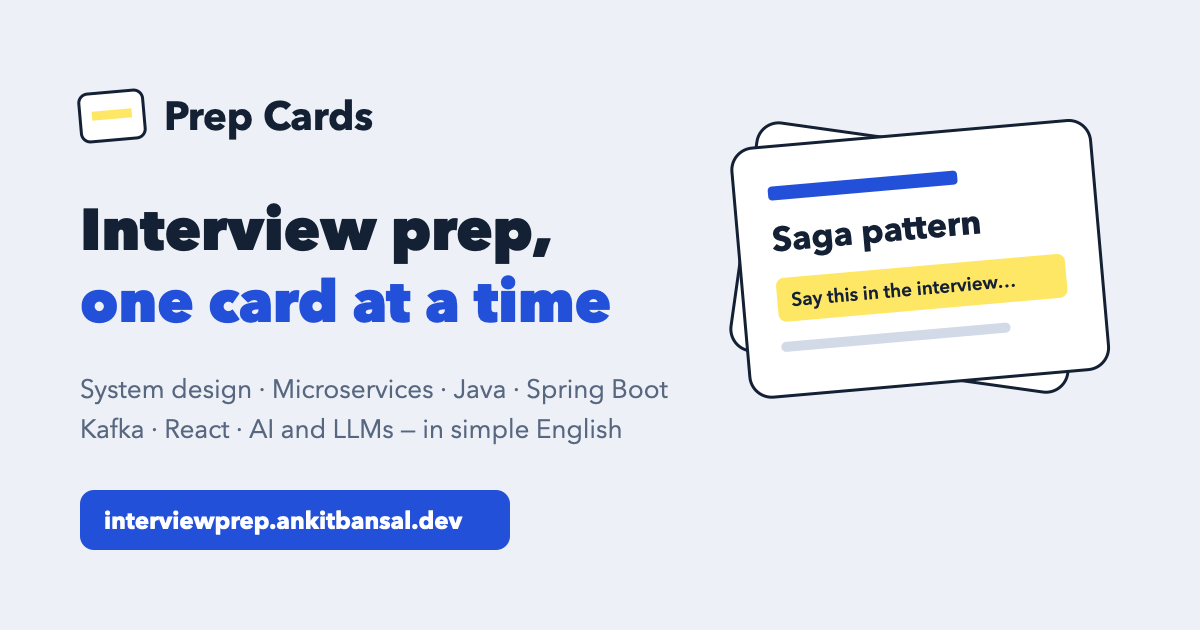
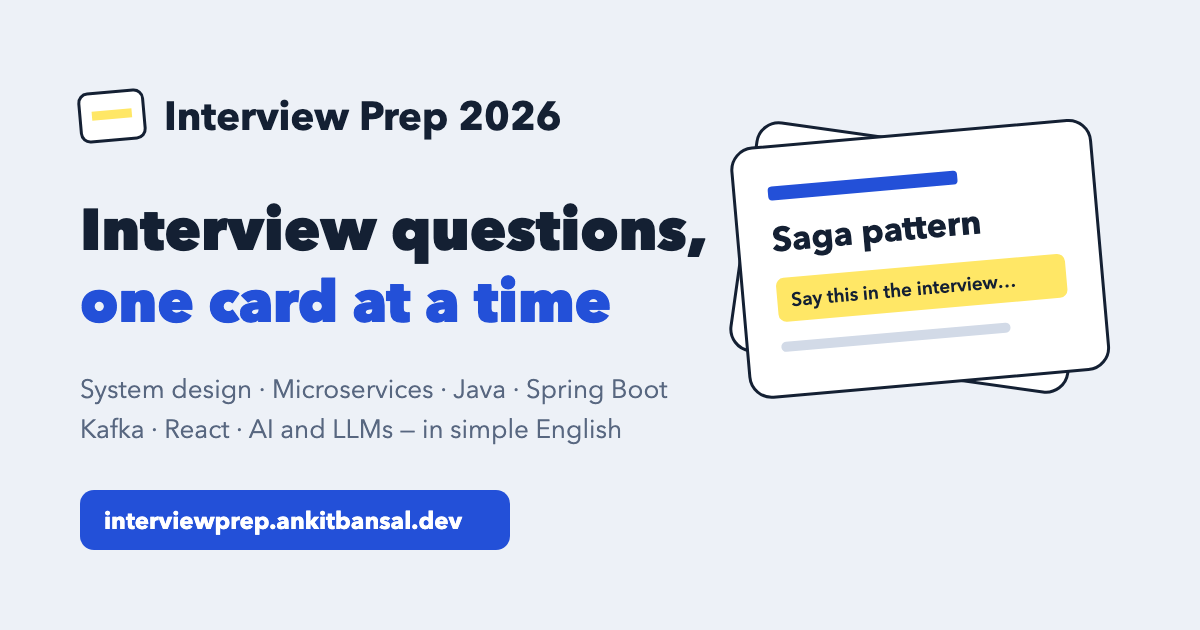
Update project branding to "Interview Prep 2026" across all relevant files and enhance SEO metadata

diff --git a/app/index.html b/app/index.html
@@ -3,25 +3,25 @@
 <head>
   <meta charset="utf-8">
   <meta name="viewport" content="width=device-width, initial-scale=1, viewport-fit=cover">
-  <title>Prep Cards · Java, Spring Boot, System Design &amp; AI Interview Prep</title>
-  <meta name="description" content="Free interview prep in simple English: system design case studies, microservices, Java 8–25, Spring Boot, Kafka, React and AI/LLMs. Search any topic, swipe one card at a time, follow a 2-week to 2-month plan and revise with flashcards.">
+  <title>Interview Prep 2026 · System Design &amp; AI/LLM, Java, Js Interview Questions</title>
+  <meta name="description" content="Interview Prep 2026: free interview questions and answers in simple English: system design case studies, microservices, Java 8–25, Spring Boot, Kafka, React and AI/LLMs. Search any topic, swipe one card at a time, follow a 2-week to 2-month plan and revise with flashcards.">
   <meta name="author" content="Ankit Bansal">
   <meta name="robots" content="index, follow, max-image-preview:large">
   <link rel="canonical" href="__SITE__">
 
   <!-- Link previews (WhatsApp, LinkedIn, X, Slack) -->
   <meta property="og:type" content="website">
-  <meta property="og:site_name" content="Prep Cards">
-  <meta property="og:title" content="Prep Cards · Interview prep, one card at a time">
+  <meta property="og:site_name" content="Interview Prep 2026">
+  <meta property="og:title" content="Interview Prep 2026 · Interview questions, one card at a time">
   <meta property="og:description" content="System design, microservices, Java, Spring Boot, Kafka, React and AI/LLMs in simple English. Swipe cards, study plans and flashcards. Free and open source.">
   <meta property="og:url" content="__SITE__">
   <meta property="og:image" content="__SITE__og-image.png">
   <meta property="og:image:width" content="1200">
   <meta property="og:image:height" content="630">
-  <meta property="og:image:alt" content="Prep Cards: interview prep, one card at a time">
+  <meta property="og:image:alt" content="Interview Prep 2026: interview questions, one card at a time">
   <meta property="og:locale" content="en_US">
   <meta name="twitter:card" content="summary_large_image">
-  <meta name="twitter:title" content="Prep Cards · Interview prep, one card at a time">
+  <meta name="twitter:title" content="Interview Prep 2026 · Interview questions, one card at a time">
   <meta name="twitter:description" content="System design, microservices, Java, Spring Boot, Kafka, React and AI/LLMs in simple English. Free and open source.">
   <meta name="twitter:image" content="__SITE__og-image.png">
 
@@ -34,8 +34,8 @@
         "@type": "WebSite",
         "@id": "__SITE__#website",
         "url": "__SITE__",
-        "name": "Prep Cards",
-        "alternateName": "Interview Prep by Ankit Bansal",
+        "name": "Interview Prep 2026",
+        "alternateName": ["Interview Prep by Ankit Bansal", "Prep Cards"],
         "description": "Free interview prep in simple English for backend and full-stack engineers.",
         "inLanguage": "en",
         "publisher": { "@id": "https://ankitbansal.dev/#person" }
@@ -43,7 +43,7 @@
       {
         "@type": "WebApplication",
         "@id": "__SITE__#app",
-        "name": "Prep Cards",
+        "name": "Interview Prep 2026",
         "url": "__SITE__",
         "applicationCategory": "EducationalApplication",
         "operatingSystem": "Any (web browser)",
@@ -59,11 +59,12 @@
       {
         "@type": "LearningResource",
         "@id": "__SITE__#guide",
-        "name": "Java, Spring, Microservices & System Design Interview Guide",
+        "name": "Java, Spring, Microservices, System Design & AI Interview Questions (2026)",
         "description": "__CARD_COUNT__ study cards with simple answers, real-life stories, diagrams and ready-to-say interview answers.",
         "learningResourceType": ["Study guide", "Flashcards"],
         "educationalLevel": "Intermediate to advanced",
         "audience": { "@type": "Audience", "audienceType": "Software engineers preparing for senior interviews" },
+        "keywords": "interview preparation, interview questions 2026, senior software engineer interview, system design interview, Java interview, Spring Boot interview, microservices, Kafka, React, AI and LLM interview",
         "teaches": ["System design", "Microservices patterns", "Java concurrency", "Java streams", "Spring Boot", "Apache Kafka", "Databases and SQL", "React", "JavaScript", "TypeScript", "AI and LLMs", "RAG"],
         "inLanguage": "en",
         "isAccessibleForFree": true,
@@ -103,7 +104,7 @@
 <body>
   <div class="app">
     <header class="top">
-      <a class="brand" href="#/"><span class="brand-mark" aria-hidden="true"></span><span class="brand-name">Prep Cards</span></a>
+      <a class="brand" href="#/"><span class="brand-mark" aria-hidden="true"></span><span class="brand-name">Interview Prep 2026</span></a>
       <div class="top-actions">
         <a class="icon-btn fill" href="https://github.com/bansalankit92/java-spring-fullstack-interview-question-answers" target="_blank" rel="noopener" aria-label="Source code on GitHub" title="Source code on GitHub">
           <svg width="19" height="19" viewBox="0 0 16 16" aria-hidden="true"><path d="M8 0C3.58 0 0 3.58 0 8c0 3.54 2.29 6.53 5.47 7.59.4.07.55-.17.55-.38 0-.19-.01-.82-.01-1.49-2.01.37-2.53-.49-2.69-.94-.09-.23-.48-.94-.82-1.13-.28-.15-.68-.52-.01-.53.63-.01 1.08.58 1.23.82.72 1.21 1.87.87 2.33.66.07-.52.28-.87.51-1.07-1.78-.2-3.64-.89-3.64-3.95 0-.87.31-1.59.82-2.15-.08-.2-.36-1.02.08-2.12 0 0 .67-.21 2.2.82.64-.18 1.32-.27 2-.27.68 0 1.36.09 2 .27 1.53-1.04 2.2-.82 2.2-.82.44 1.1.16 1.92.08 2.12.51.56.82 1.27.82 2.15 0 3.07-1.87 3.75-3.65 3.95.29.25.54.73.54 1.48 0 1.07-.01 1.93-.01 2.2 0 .21.15.46.55.38A8.01 8.01 0 0 0 16 8c0-4.42-3.58-8-8-8z"/></svg>

diff --git a/app/styles.css b/app/styles.css
@@ -1,4 +1,4 @@
-/* Prep Cards. Layout: one narrow reading column (phone first), full-screen swipe reader on top, bottom tab bar.
+/* Interview Prep 2026. Layout: one narrow reading column (phone first), full-screen swipe reader on top, bottom tab bar.
    Look: index cards, whiteboard-marker blue, highlighter yellow for "Say this in the interview". */
 :root {
   --bg: #EDF1F7; --surface: #FFFFFF; --surface-2: #E2E8F2; --ink: #142033; --muted: #586780; --line: #D2DAE7;
@@ -50,7 +50,7 @@ img { max-width: 100%; height: auto; }
 .brand-name { font: 700 22px var(--display); }
 .top-actions { display: flex; align-items: center; gap: 8px; flex: none; }
 .brand { min-width: 0; }
-.brand-name { white-space: nowrap; }
+.brand-name { white-space: nowrap; overflow: hidden; text-overflow: ellipsis; min-width: 0; font-size: clamp(17px, 5vw, 22px); }
 .icon-btn.fill svg { fill: var(--ink); stroke: none; width: 19px; height: 19px; }
 .icon-btn:hover { border-color: var(--muted); }
 .ghost { background: none; border: 1px solid var(--line); border-radius: 999px; padding: 6px 12px; font-size: 13px; color: var(--muted); }

diff --git a/app/app.js b/app/app.js
@@ -1,4 +1,4 @@
-/* Prep Cards: read the guide one card at a time.
+/* Interview Prep 2026: read the guide one card at a time.
    Data comes from content/data.json (built by build.mjs). Progress lives in localStorage only. */
 (function () {
   "use strict";
@@ -515,7 +515,7 @@
         var od = (o.plan && o.plan.done) || {};
         Object.keys(od).forEach(function (k) { st.plan.done[k] = Array.from(new Set((st.plan.done[k] || []).concat(od[k]))); });
         save(); toast("Progress imported"); renderHome();
-      } catch (err) { toast("That file is not a Prep Cards progress file"); }
+      } catch (err) { toast("That file is not an Interview Prep progress file"); }
     };
     r.readAsText(file);
   }

diff --git a/app/README.md b/app/README.md
@@ -1,4 +1,4 @@
-# Prep Cards
+# Interview Prep 2026 (app)
 
 Live: **https://interviewprep.ankitbansal.dev/**
 
